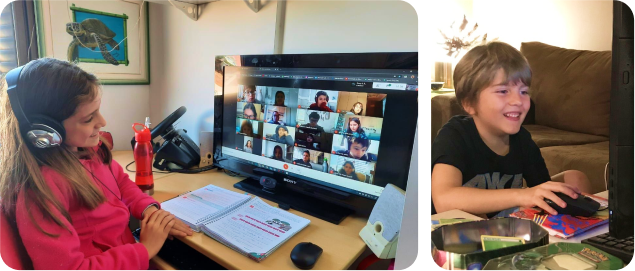
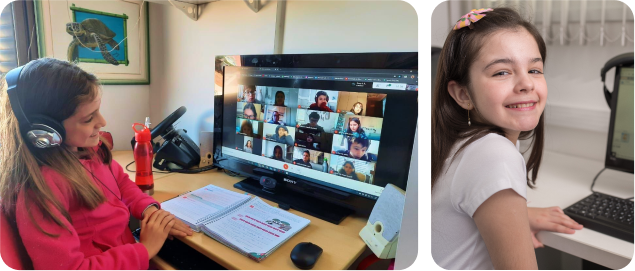
Troca de foto

Changed region(s): [[0.6583, 0.0, 1.0, 1.0]]

diff --git a/index.html b/index.html
@@ -103,6 +103,11 @@
 
       gtag("config", "UA-131021402-1");
     </script>
+    <!-- Script CRM  -->
+    <script
+      type="text/javascript"
+      src="https://tracking.apprubeus.com.br/libs/RBTracking.min.js?rbclicod=4OiUlSy3ErAuZ9wpr5lz"
+    ></script>
   </head>
   <body>
     <section id="banner" class="d-flex align-items-center flex-column">
